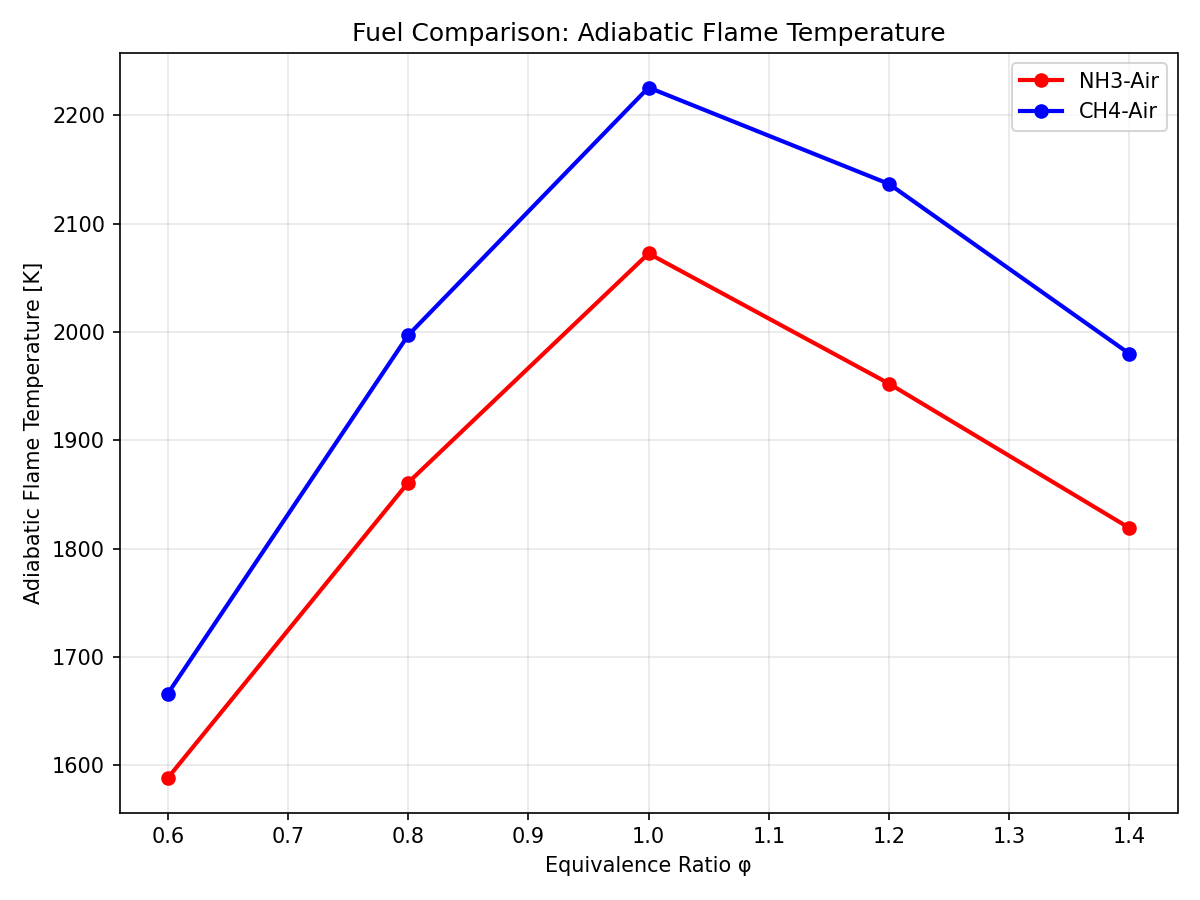
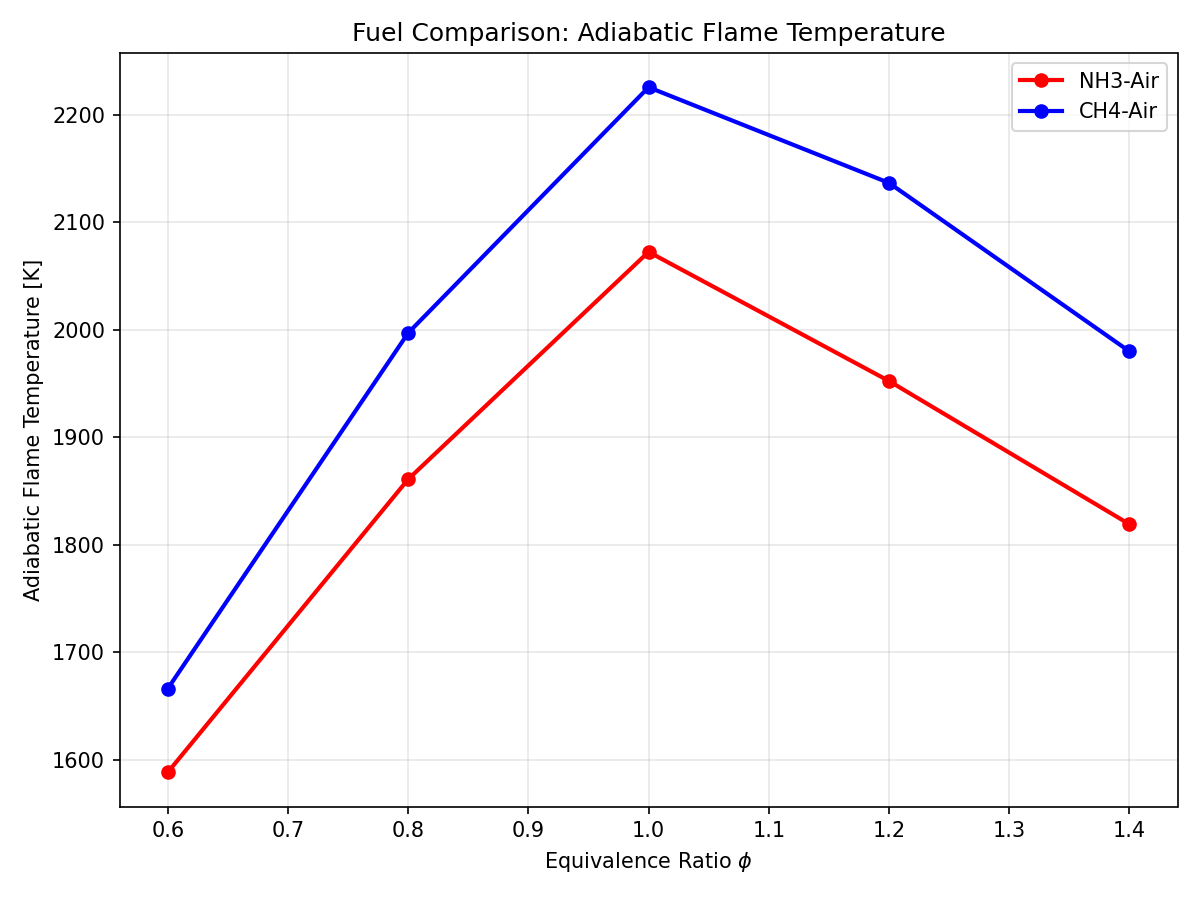
Fix nitrogen species output

diff --git a/01_equilibrium/nh3_adiabatic_flame_analysis.py b/01_equilibrium/nh3_adiabatic_flame_analysis.py
@@ -80,7 +80,7 @@ def calculate_adiabatic_conditions(mechanism, fuel, phi, T_initial, p_initial):
         }
 
     except Exception as e:
-        print(f"Error for φ={phi}: {e}")
+        print(f"Error for $\phi$={phi}: {e}")
         return None
 
 
@@ -106,8 +106,8 @@ def analyze_nh3_equilibrium():
             results.append(result)
 
             # Print summary
-            print(f"φ = {phi:.2f}")
-            print(f"  T_ad = {result['T_adiabatic']:.1f} K  (ΔT = +{result['delta_T']:.1f} K)")
+            print(f"  phi = {phi:.2f}")
+            print(f"  T_ad = {result['T_adiabatic']:.1f} K  (deltaT = +{result['delta_T']:.1f} K)")
             print(f"  Major species:")
             for name, X in result['major_species'][:5]:  # Top 5
                 print(f"    {name:>6s}: X = {X:.4f}")
@@ -138,7 +138,7 @@ def plot_adiabatic_results(results):
 
     # Temperature plot
     ax1.plot(phi_vals, T_ad_vals, 'ro-', linewidth=2, markersize=8)
-    ax1.set_xlabel('Equivalence Ratio φ')
+    ax1.set_xlabel('Equivalence Ratio $\phi$')
     ax1.set_ylabel('Adiabatic Flame Temperature [K]')
     ax1.set_title(f'{FUEL}–Air Adiabatic Flame Temperature')
     ax1.grid(True, alpha=0.3)
@@ -152,8 +152,8 @@ def plot_adiabatic_results(results):
 
     # Temperature rise plot  
     ax2.plot(phi_vals, delta_T_vals, 'bo-', linewidth=2, markersize=8)
-    ax2.set_xlabel('Equivalence Ratio φ')
-    ax2.set_ylabel('Temperature Rise ΔT [K]')
+    ax2.set_xlabel('Equivalence Ratio $\phi$')
+    ax2.set_ylabel('Temperature Rise $\delta$T [K]')
     ax2.set_title('Temperature Rise from Combustion')
     ax2.grid(True, alpha=0.3)
 
@@ -162,7 +162,7 @@ def plot_adiabatic_results(results):
     plt.show()
 
     # Plot 2: Major species composition at stoichiometric conditions
-    # Find stoichiometric result (φ=1.0)
+    # Find stoichiometric result (phi=1.0)
     stoich_result = next((r for r in results if abs(r['phi'] - 1.0) < 0.01), None)
 
     if stoich_result:
@@ -174,7 +174,7 @@ def plot_adiabatic_results(results):
 
         plt.xlabel('Species')
         plt.ylabel('Mole Fraction')
-        plt.title(f'{FUEL}–Air Equilibrium Products (φ=1.0, T_ad={stoich_result["T_adiabatic"]:.0f}K)')
+        plt.title(f'{FUEL}–Air Equilibrium Products ($\phi$=1.0, $T_{{ad}}$={stoich_result["T_adiabatic"]:.0f}K)')
         plt.xticks(range(len(species_names)), species_names, rotation=45)
         plt.yscale('log')
         plt.grid(True, alpha=0.3)
@@ -216,7 +216,7 @@ def compare_with_methane():
             plt.figure(figsize=(8, 6))
             plt.plot(phi_vals, nh3_temps, 'ro-', label='NH3-Air', linewidth=2)
             plt.plot(phi_vals, ch4_temps, 'bo-', label='CH4-Air', linewidth=2)
-            plt.xlabel('Equivalence Ratio φ')
+            plt.xlabel('Equivalence Ratio $\phi$')
             plt.ylabel('Adiabatic Flame Temperature [K]')
             plt.title('Fuel Comparison: Adiabatic Flame Temperature')
             plt.legend()
@@ -252,8 +252,9 @@ def main():
         # Extract nitrogen-containing products for stoichiometric case
         stoich = next((r for r in results if abs(r['phi'] - 1.0) < 0.01), None)
         if stoich:
-            n_species = [s for s in stoich['major_species'] if 'N' in s[0] and s[0] not in ['N2']]
-            print(f"Nitrogen products (φ=1.0): {[s[0] for s in n_species]}")
+            n_species = [s for s in stoich['major_species'] if 'N' in s[0]]
+            print(f"All nitrogen species (phi=1.0): {[(s[0], f'{s[1]:.6f}') for s in n_species]}")
+            print(f"Nitrogen products (phi=1.0): {[s[0] for s in n_species]}")
 
     else:
         print("Analysis failed. Check mechanism file path and Cantera installation.")
